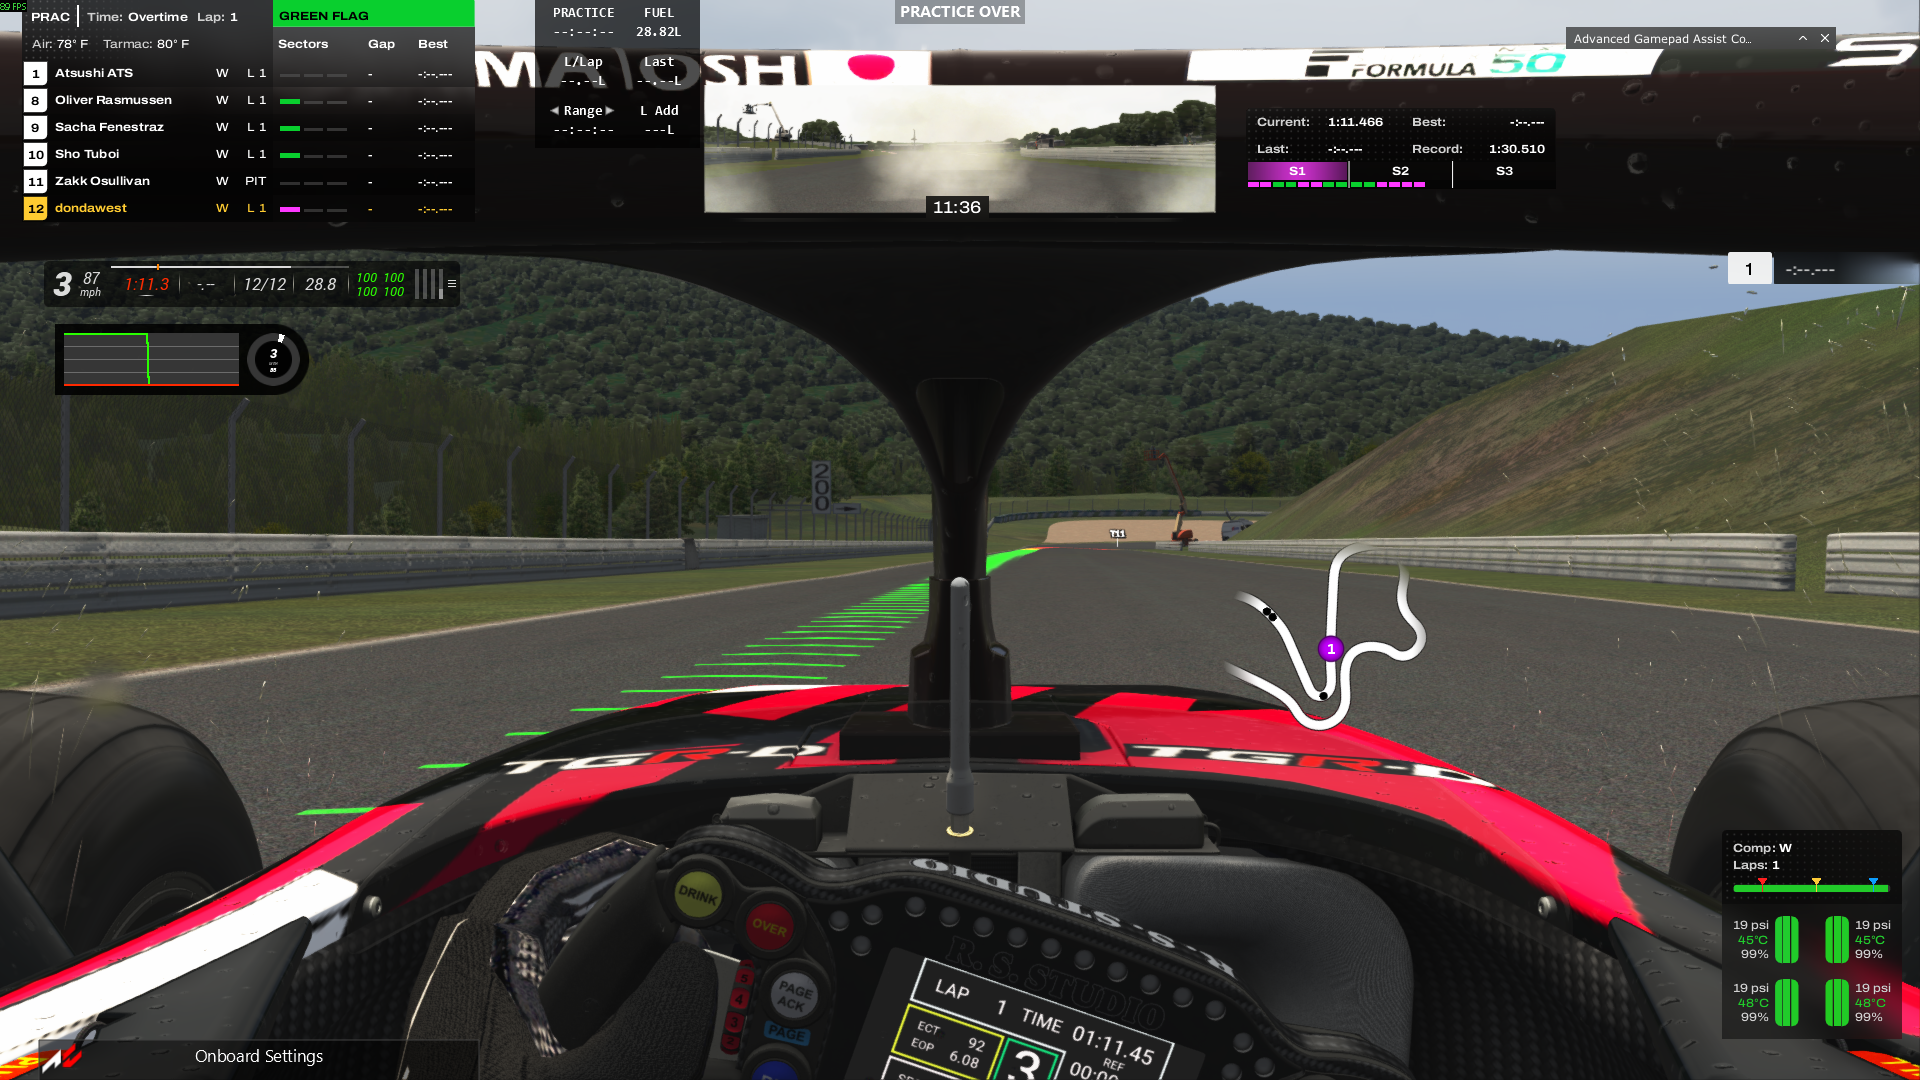
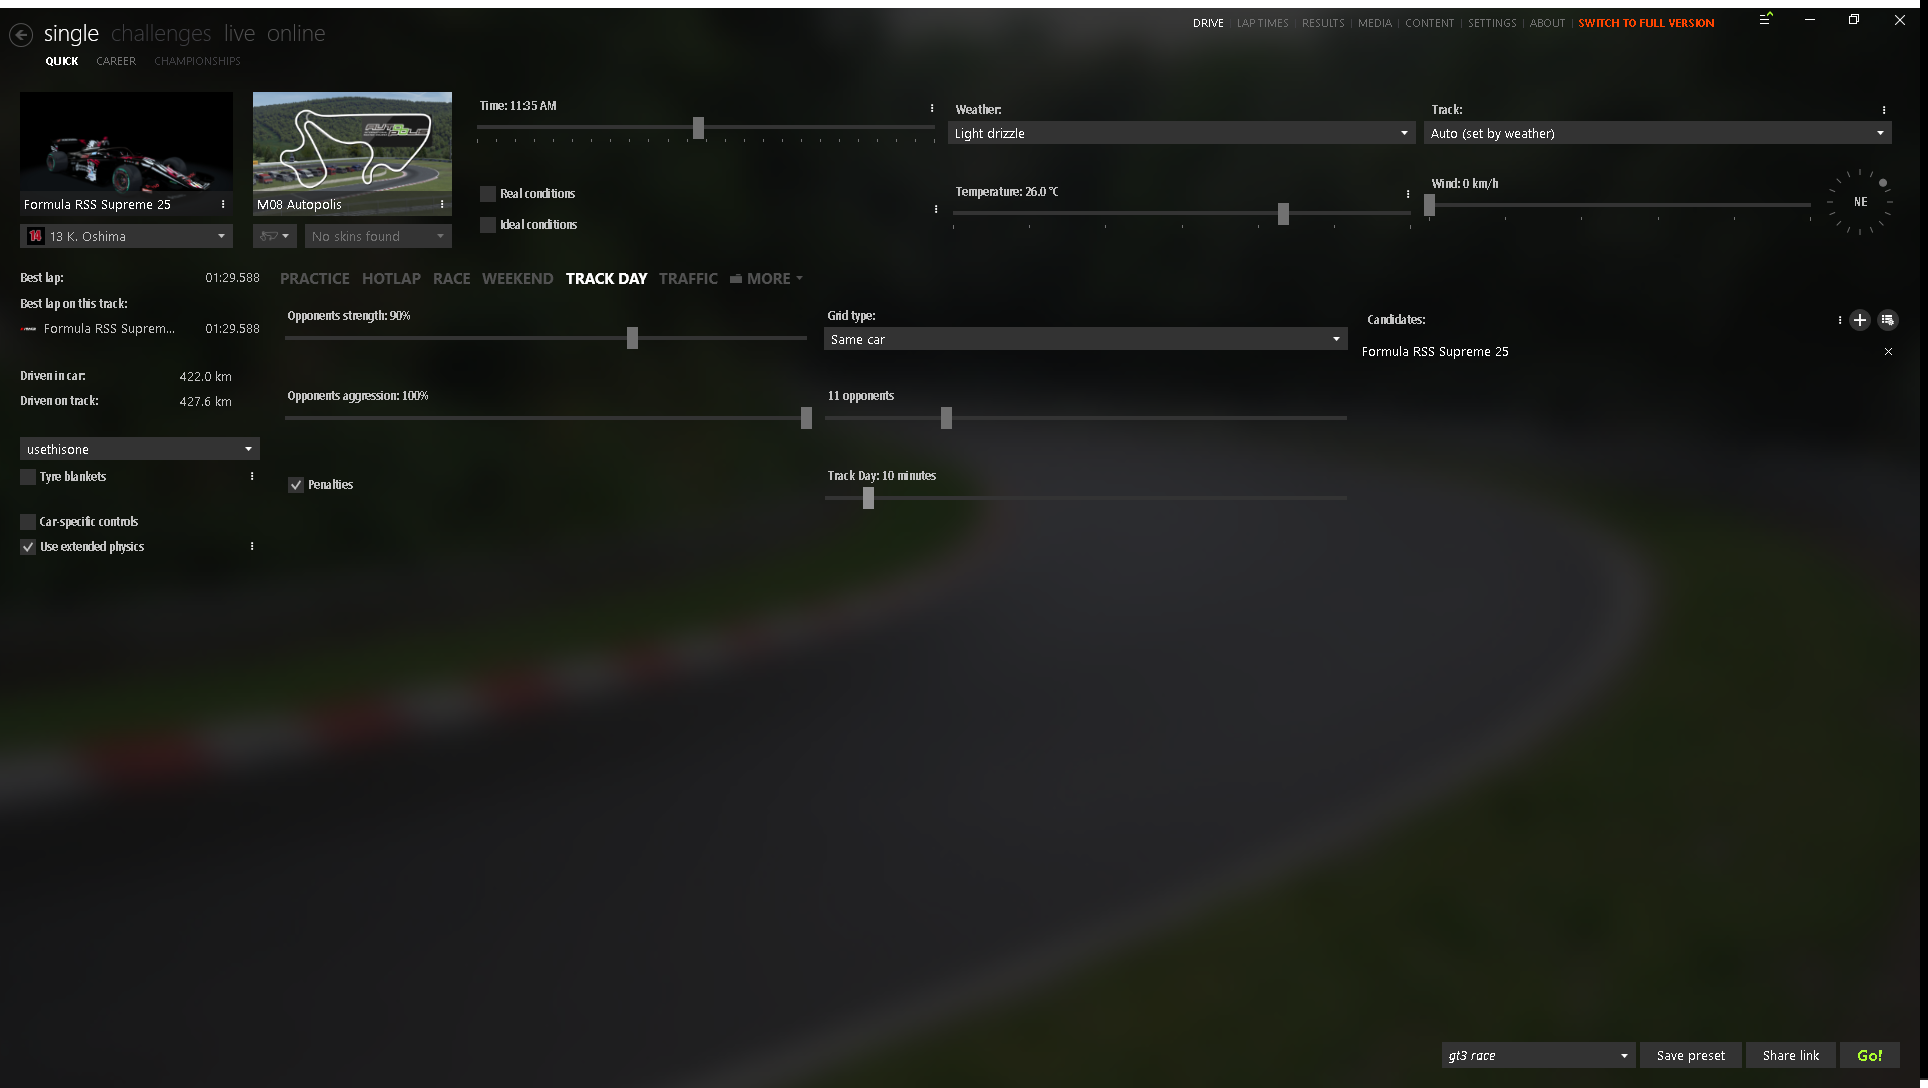
Update screenshot, immobilize vehicle in pits, and auto-close session via WM_CLOSE

diff --git a/README.md b/README.md
@@ -77,7 +77,7 @@ Custom Shaders Patch runs `apps/lua/TrackdayTimer/` in the background during Tra
 - Watches player telemetry:
   - If on a flying lap, allows lap completion across the finish line.
   - If driver enters pitlane or brings car to a stop, triggers conclusion.
-- Calls `ac.tryToTeleportToPits()` and `ac.tryToOpenRaceMenu('time')` to lock the session and display final timings.
+- Calls `ac.tryToTeleportToPits()`, immobilizes vehicle controls, and cleanly closes the session back to Content Manager (saving session results and displaying the summary screen).
 
 ---
 
